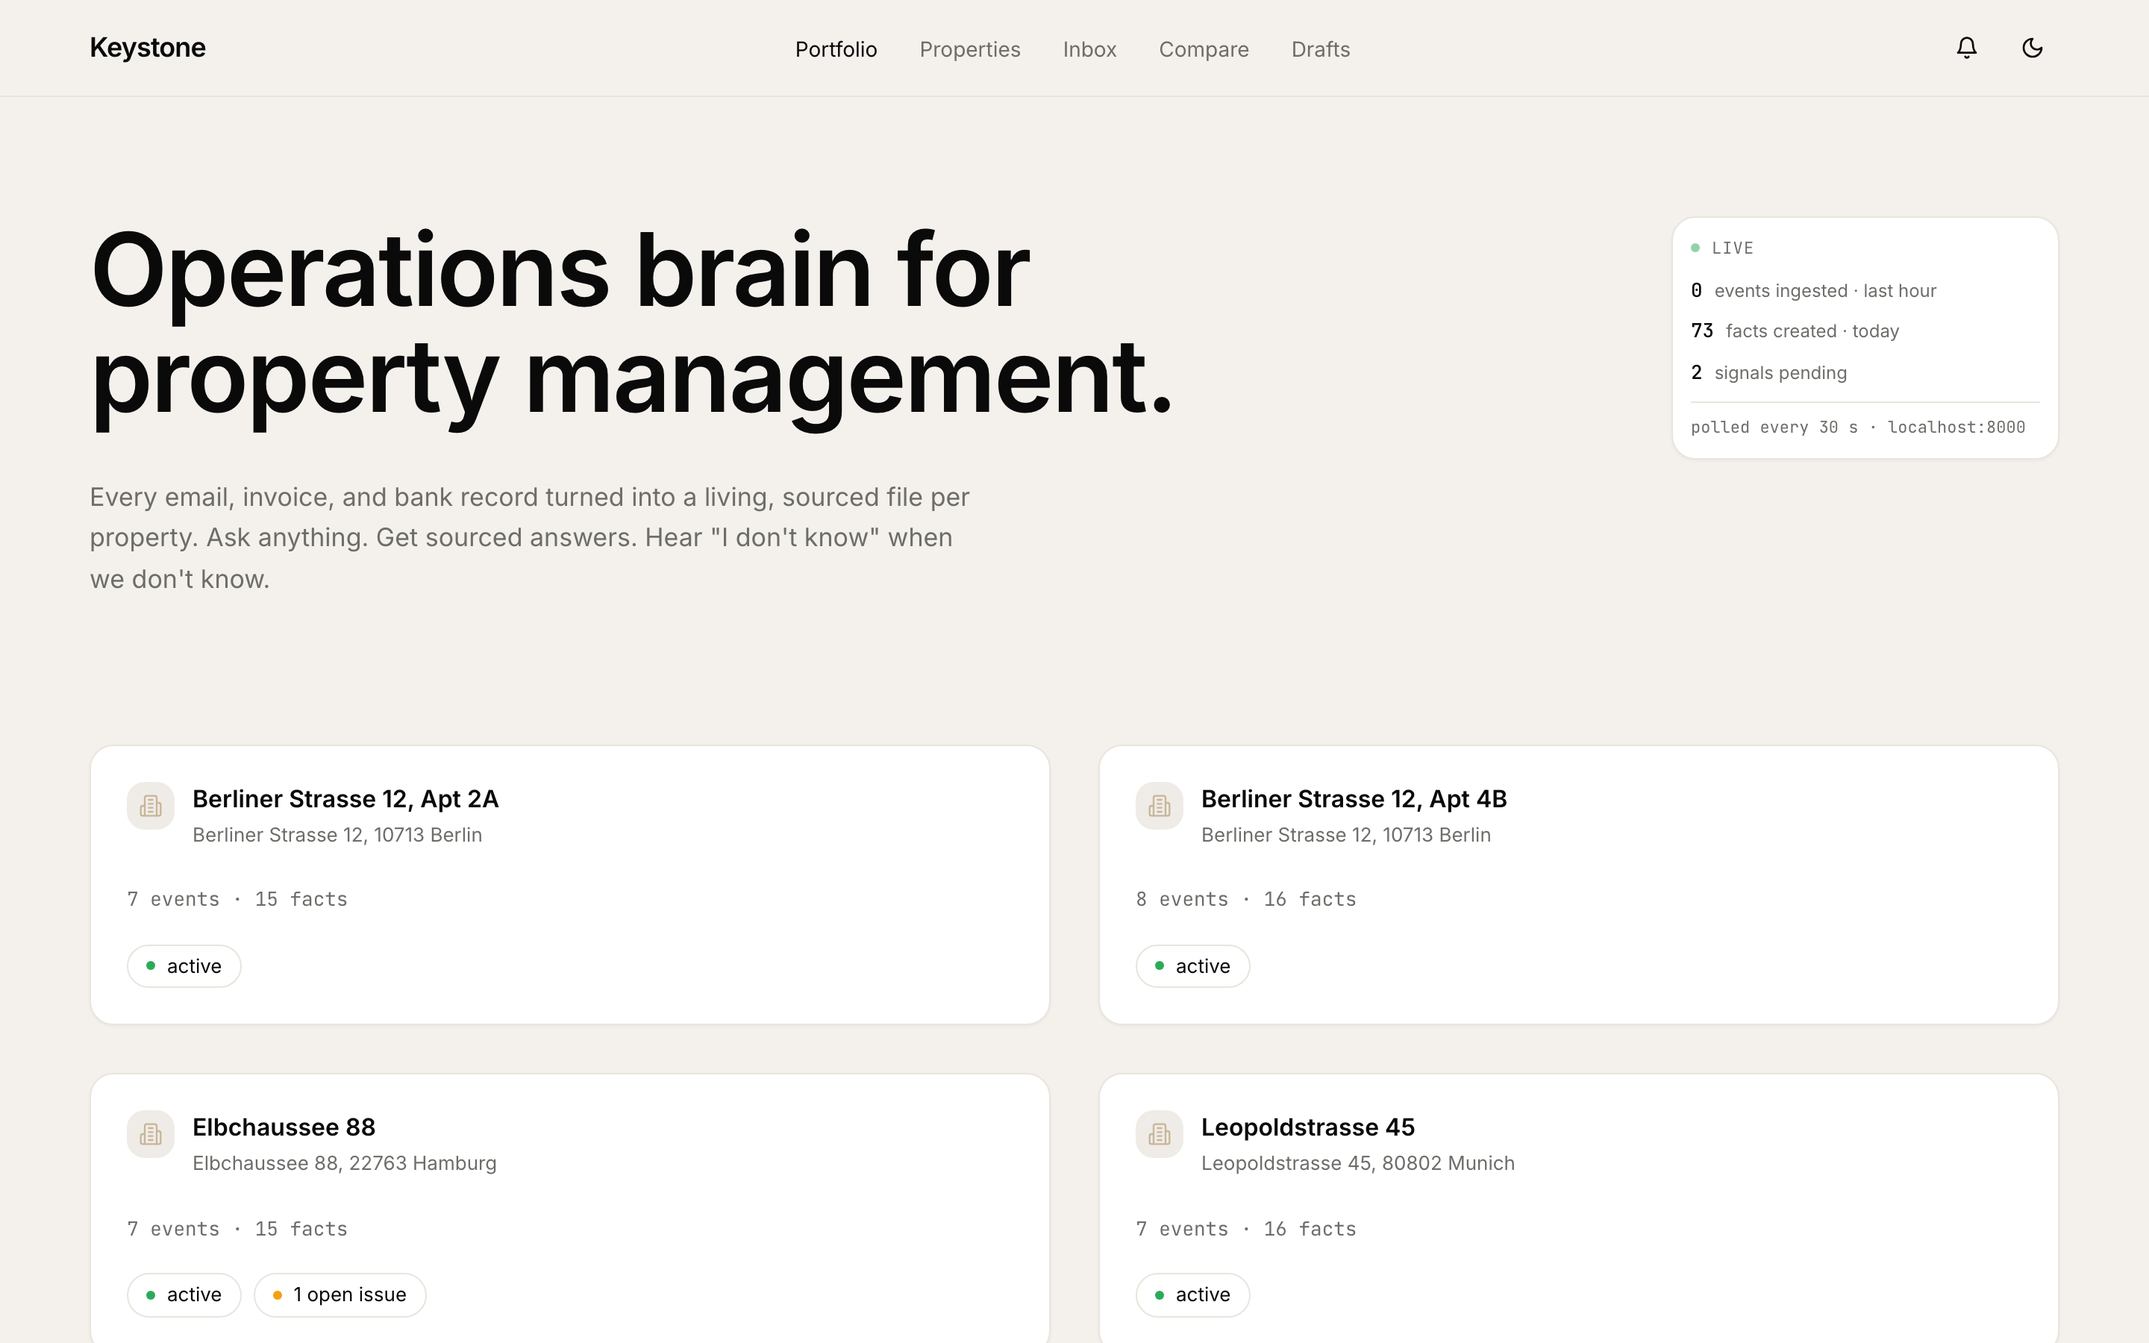
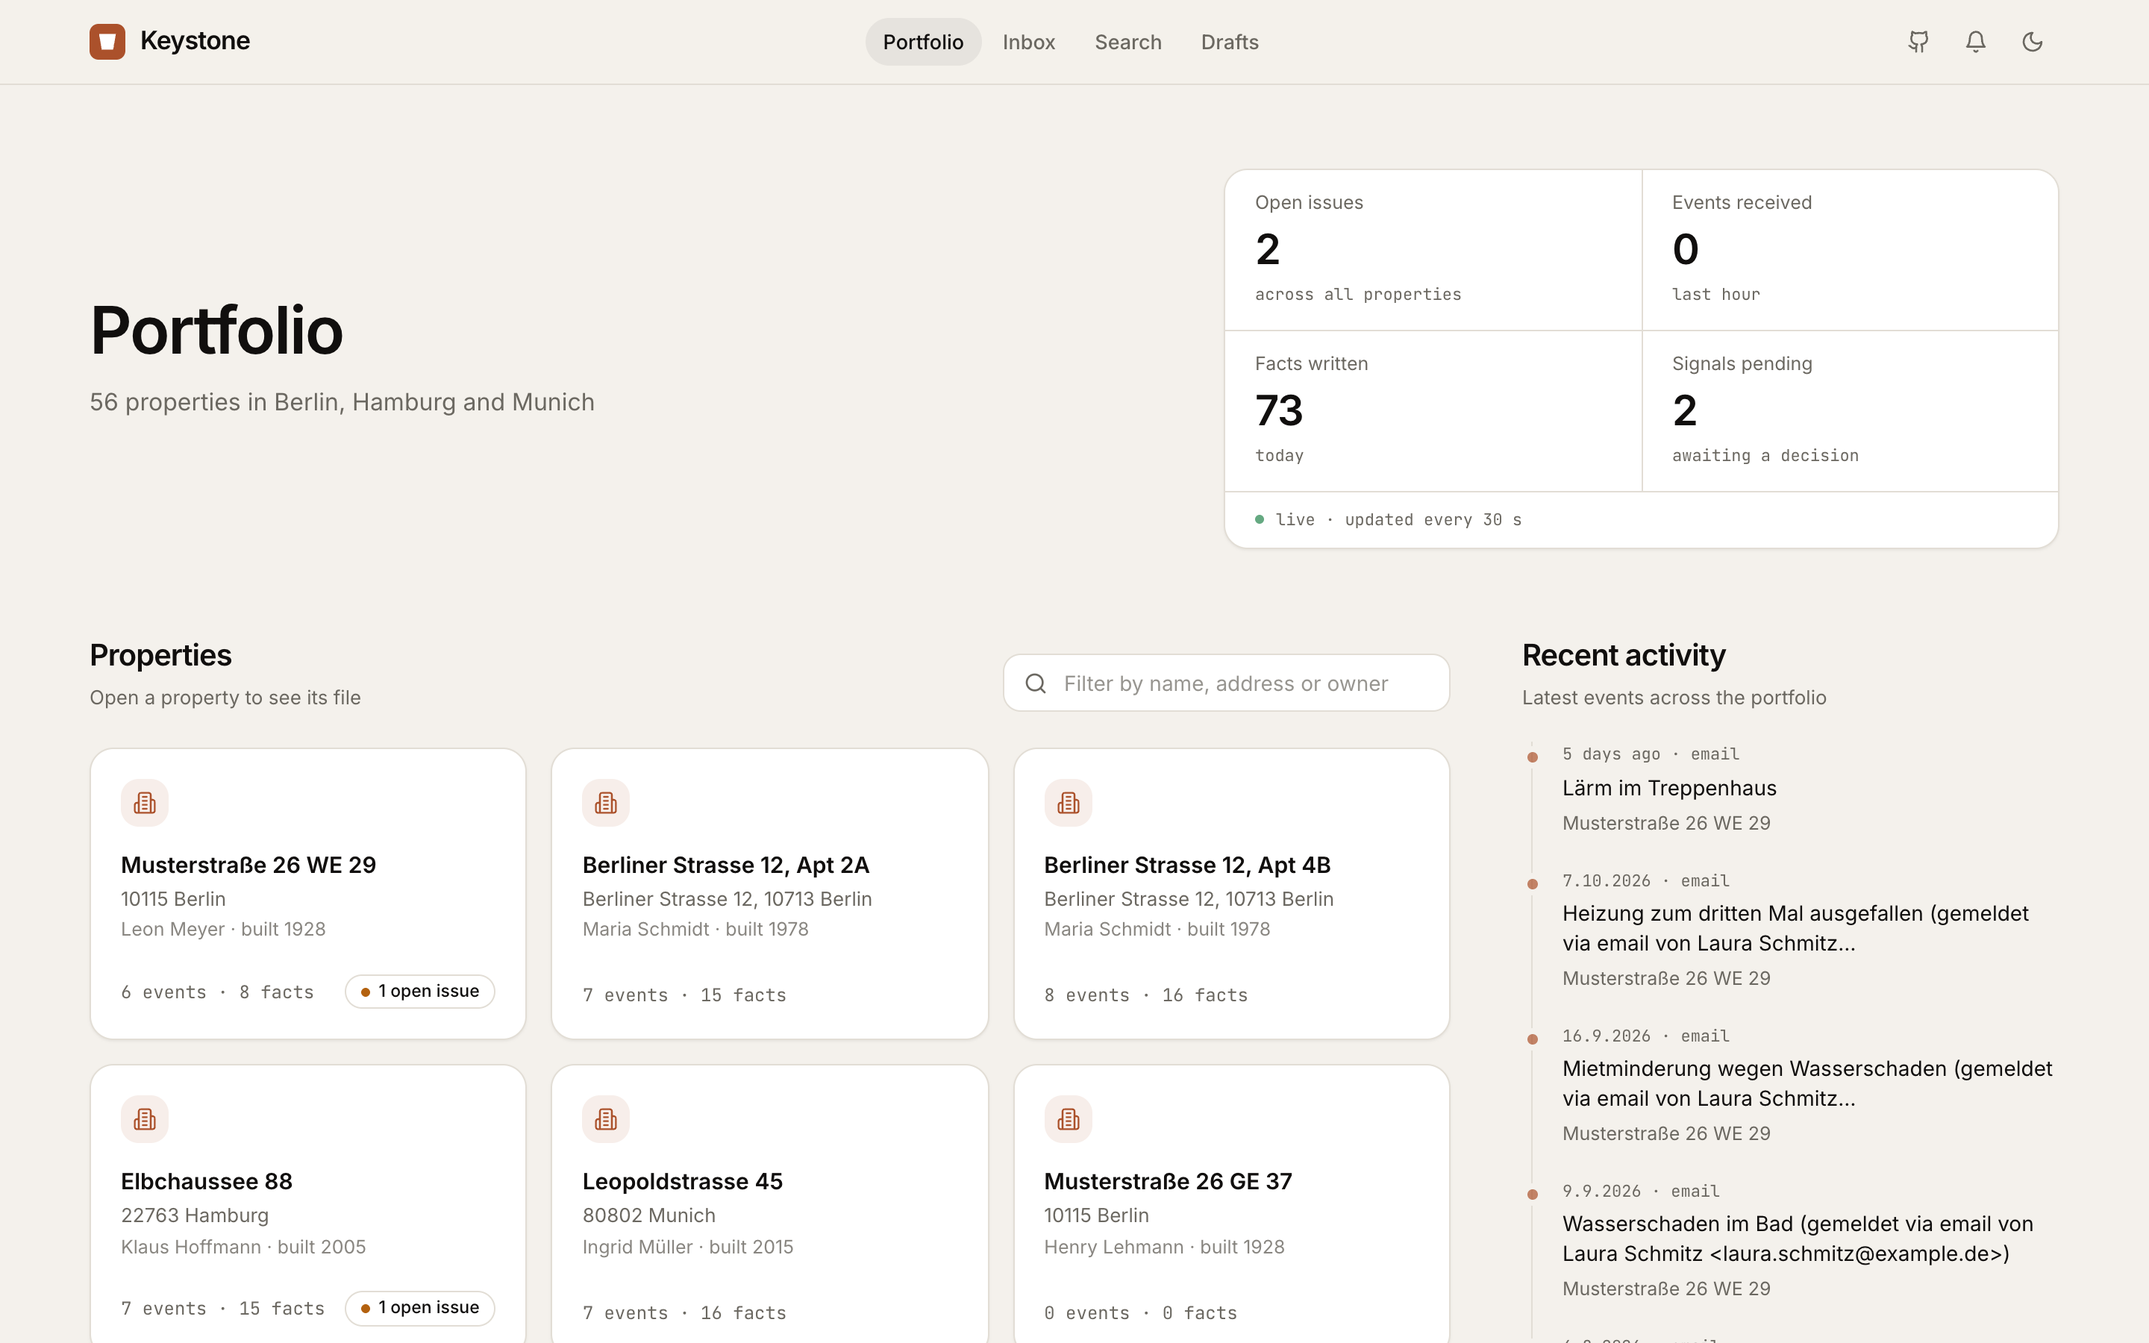
docs: rewrite the README and refresh the screenshots

diff --git a/README.md b/README.md
@@ -1,15 +1,19 @@
 # Keystone
 
-Keystone turns a property manager's scattered inbox, bank statements,
-invoices and master data into one current, sourced file per property. Every
-fact links to the email or document it came from, carries a confidence score
-and keeps its history; anything the system is unsure about goes to a review
-inbox instead of into the file. On top of the files, rules raise signals
-(recurring heating failures, expiring leases, patterns across buildings) that
-a human approves before anything is sent. It runs without any API key, using a
-rule-based extractor.
+Keystone keeps one file per property for a property manager. It reads what
+the manager already has (tenant email, bank statements, contractor invoices,
+letters, the master-data spreadsheet), pulls the facts out, and writes each
+one into the right property's file with a link to the message or document
+it came from, a confidence score and its history. When it is not sure, the
+item goes to a review inbox instead of the file. A few rules watch the files
+for things worth acting on, such as a heating system that keeps failing or a
+lease about to expire, and draft a message that a person has to approve
+before it goes anywhere.
 
-Built solo in a hackathon window, then cleaned up and hardened.
+I wrote the first version in a hackathon and have been cleaning it up since.
+It runs without any API key: extraction falls back to a rule-based extractor
+and signal drafts to templates. Give it a key and an LLM does the extraction,
+answers questions about a property with citations, and drafts replies.
 
 | Portfolio | Property file |
 |---|---|
@@ -17,135 +21,232 @@ Built solo in a hackathon window, then cleaned up and hardened.
 | **Approval inbox** | **Ask** |
 | ![Approval inbox](docs/img/approval-inbox.png) | ![Ask](docs/img/ask-panel.png) |
 
-A fresh `docker compose up` with no API key: the synthetic sample data as it
-loads on first start, nothing added by hand.
+The screenshots are from a fresh `docker compose up` with no API key: the
+sample data as it loads on first start, nothing added by hand.
 
 ## How it works
 
-```mermaid
-flowchart LR
-    S[Email, bank CSV, PDFs, Slack, API] --> C[Connectors / API]
-    C -->|idempotent insert| Q[(events in Postgres)]
-    Q -->|SKIP LOCKED| W[Worker: route, extract, diff, validate, apply]
-    W --> F[(facts + materialized files)]
-    W --> R[(review inbox)]
-    F --> API[REST + SSE]
-    API --> UI[React frontend]
-    API --> M[MCP server]
-    F --> E[Signal evaluator] --> I[Approval inbox] --> O[(outbox)]
+```
+   email, bank CSV, PDFs, Slack, HTTP
+                  |
+                  v
+             connectors         redact, then insert keyed on
+                  |             (source, source_ref); a re-run is a no-op
+                  v
+          events (Postgres)     Postgres is the queue
+                  |
+                  v
+               worker           claims one row with SKIP LOCKED, then in
+                  |             one transaction: route, extract, diff,
+                  |             validate, apply, re-render the file
+         +--------+--------+
+         |                 |
+         v                 v
+   facts and files    review inbox
+         |
+         +----> REST API, SSE ----> React frontend
+         |                   \----> MCP server
+         |
+         +----> signal rules -----> approval inbox ----> outbox
 ```
 
-Design details: [docs/ARCHITECTURE.md](docs/ARCHITECTURE.md). Why it is built
-this way, including the mistakes: [docs/DECISIONS.md](docs/DECISIONS.md).
+A connector redacts IBANs, phone numbers and email domains before anything
+is stored, and inserts the event keyed on `(source, source_ref)`, so
+importing the same archive twice changes nothing. The worker claims events
+with `FOR UPDATE SKIP LOCKED`; several workers can share one database and
+there is no separate queue to run.
 
-## Features
+For each event the worker looks for a property named in the text and marks
+the event unrouted rather than guess. (The bulk email import also routes to
+a building or an owners' association.) It extracts facts, diffs them
+against what the file already says, runs eight rule constraints (a
+building's address and year built never change, a rent change needs an
+addendum, and so on) and, with a key, an LLM check for contradictions with
+the current file. Anything under the confidence floor or flagged by a
+constraint lands in the review inbox. A fact an operator edited by hand is
+never overwritten. Old facts are kept and point at their replacement, so
+the history of any field can be read back. The property's file is
+re-rendered in the same transaction as the fact write, so nobody reads a
+file that disagrees with its facts.
 
-- **Idempotent ingestion** of `.eml` archives, bank CSV, invoice and letter
-  PDFs, master data, IMAP, Slack and PDF upload, keyed on
-  `(source, source_ref)`: `connectors/`, `backend/api/webhooks.py`,
-  `backend/api/uploads.py`
-- **Postgres as the job queue** with `FOR UPDATE SKIP LOCKED`, one transaction
-  per event: `backend/pipeline/worker.py`
-- **Three-tier routing** (owners' association, building, unit) that leaves an
-  event unrouted rather than guessing: `backend/pipeline/router.py`
-- **LLM extraction with structured output**, timeouts, retries and a
-  rule-based fallback: `backend/pipeline/extractor.py`,
-  `backend/services/gemini.py`
-- **Facts with provenance and supersession**, where operator edits are never
-  overwritten: `backend/pipeline/differ.py`, `backend/pipeline/applier.py`
-- **Trust layer**: 8 rule constraints, an LLM contradiction check and an
-  uncertainty inbox: `backend/pipeline/validator.py`,
-  `backend/pipeline/constraints/`, `backend/pipeline/semantic_validator.py`
-- **Per-property files re-rendered in the same transaction** as each fact
-  write: `backend/pipeline/materializer.py`
-- **Signals with human approval**; a decision holds for a cooldown period:
-  `backend/signals/`, `backend/api/signals.py`
-- **Ask a property** with cited answers or an explicit "I don't know":
-  `backend/services/ask.py`
-- **MCP server** exposing property context to MCP clients: `mcp_server/`
-- **PII redaction at ingestion** and a **durable LLM spend cap**:
-  `connectors/redact.py`, `connectors/cost_ledger.py`
-- **Evaluation harness** with committed run reports: `eval/`, `docs/eval-runs/`
+Signals run on their own schedule over the current facts, so a slow rule
+never holds up ingestion. A decision on a signal holds for a cooldown
+period, so the same finding does not come back the next morning.
 
-## Quickstart
+The long version, with the data model and the concurrency story, is
+[docs/ARCHITECTURE.md](docs/ARCHITECTURE.md). Each non-obvious choice, the
+alternatives that were rejected and the mistakes along the way are in
+[docs/DECISIONS.md](docs/DECISIONS.md).
 
-Requires Docker.
+## Running it
 
-```bash
-cp .env.example .env && docker compose up
-```
+You need Docker.
 
-- Frontend: <http://localhost:8080>
-- API and interactive docs: <http://localhost:8000/docs>
+    cp .env.example .env
+    docker compose up
 
-The first start builds both images, applies the schema and loads synthetic
-sample data: 56 properties, and six tenant emails for the featured property
-(WE 29) that go through the pipeline so its file has a history. No API key is needed: extraction falls back to
-the rule-based extractor and signal drafts to templates. Ask, reply drafting
-and the LLM contradiction check need a provider key in `.env`:
-`GEMINI_API_KEY` by default, or `LLM_PROVIDER=pioneer` with `PIONEER_API_KEY`.
-Push an event through the pipeline:
+Then:
 
-```bash
-curl -X POST localhost:8000/debug/trigger_event -H 'content-type: application/json' \
-  -d '{"raw_content": "From: tenant@example.com\nSubject: Heizung\n\nDie Heizung in WE 29 ist ausgefallen."}'
-```
+    frontend    http://localhost:8080
+    API docs    http://localhost:8000/docs
 
-Development without containers: `docker compose up -d postgres`, then
-`pip install -e ".[dev]"` and `./scripts/dev.sh` (API with reload plus the Vite
-dev server). Tests: `pytest` against that Postgres, with no keys or other
-services, and `npm test` in `frontend/`. `pre-commit install` adds ruff,
-prettier and a check that blocks real addresses, IBANs and deployment URLs;
-CI (`.github/workflows/ci.yml`) runs those plus mypy, ESLint, the type check,
-both test suites and the frontend build.
+The first start builds both images, applies the schema and loads the sample
+data: 56 properties, and six tenant emails for the featured property (WE 29)
+that go through the pipeline so its file has a history. All of it is
+synthetic. Starting again is safe; every step is idempotent.
+
+To push an event through yourself:
+
+    curl -X POST localhost:8000/debug/trigger_event \
+      -H 'content-type: application/json' \
+      -d '{"raw_content": "From: tenant@example.com\nSubject: Heizung\n\nDie Heizung in WE 29 ist ausgefallen."}'
+
+The property page picks the change up over the server-sent event stream.
+
+Without a key, extraction uses the rule-based path, signal drafts use
+templates, and Ask and reply drafting return 503. To turn the LLM on, set
+`GEMINI_API_KEY` in `.env`, or `LLM_PROVIDER=pioneer` and `PIONEER_API_KEY`
+for an OpenAI-compatible gateway. Nothing else changes.
+
+## Running without Docker
+
+Python 3.11, Node 20 and Postgres 16. The compose file can provide just the
+database, published on host port 5433 so it does not collide with one you
+already run; the DSNs in `.env.example` point at it.
+
+    docker compose up -d postgres
+    python3.11 -m venv .venv && source .venv/bin/activate
+    pip install -e ".[dev]"
+    (cd frontend && npm ci)
+
+Apply the schema and load the sample data, which is what the container
+entrypoint does on start:
+
+    python -m seed.seed
+    python -c "from connectors.migrations import apply_all; apply_all()"
+    EXTRACTED_ROOT=Extracted_demo python -m connectors.cli load-stammdaten --source buena
+    python -m connectors.cli materialize-all
+    python -m connectors.cli load-sample-events
+
+Then `./scripts/dev.sh` starts the API with reload on port 8000 and the Vite
+dev server on 8080, and stops both on Ctrl-C.
+
+## Configuration
+
+Everything is read from the environment or `.env`. The example file lists
+every variable with a comment, and the defaults are enough for a local run.
+The ones worth knowing:
+
+    DATABASE_URL            asyncpg DSN; DATABASE_URL_SYNC is the psycopg2 one
+    LLM_PROVIDER            gemini (default) or pioneer, and that provider's key
+    FEATURED_PROPERTY       the property the UI opens first (default EH-029)
+    KEYSTONE_CORS_ORIGINS   browser origins allowed to call the API
+    IMAP_HOST, IMAP_USER,   mailbox to poll; the poller stays off until a
+    IMAP_PASSWORD           real password is set
+    SLACK_SIGNING_SECRET    the Slack webhook checks signatures once this is set
+    MOCK_ERP_URL            payments feed to poll; empty turns the poller off
+
+## Tests and checks
+
+The Python tests need the Postgres from `docker compose up -d postgres` and
+nothing else. API keys are blanked for every test, so a run never makes a
+paid call, and a test that needs the private dataset skips and says so.
+
+    pytest                      # backend, connectors, eval, mcp_server, scripts
+    cd frontend && npm test     # Vitest
+
+`pre-commit install` adds ruff, prettier and a check that no real address,
+IBAN or deployment URL gets committed. CI runs those plus mypy in strict
+mode, ESLint, the TypeScript check, both test suites and the frontend
+build, against an empty Postgres 16. See `.github/workflows/ci.yml`.
 
 ## Evaluation
 
-30 hand-labelled emails, scored by `python -m eval.runner --set emails_v1`.
-Full methodology and weaknesses: [docs/EVALUATION.md](docs/EVALUATION.md).
+The extractor is scored against 30 hand-labelled emails by
+`python -m eval.runner --set emails_v1`. The LLM run and the keyless run
+on the same set:
 
-| Metric | LLM (Gemini) | Rule-based, no key |
+| | Gemini | Rule-based, no key |
 |---|---:|---:|
 | Category accuracy | 73.3% | 63.3% |
 | Routing accuracy | 93.3% | 93.3% |
 | Fact extraction, micro F1 | 0.88 | 0.42 |
 | Lease facts, F1 | 0.62 | 0.67 |
-| Extracted values matching the source wording | 3 of 26 | 0 of 11 |
+| Values matching the source wording | 3 of 26 | 0 of 11 |
 
-Every number here is traced to its command or report in
+These are not numbers to leave unattended, and the set is too small to tell
+two strong models apart. Lease precision is low because the model reads an
+owner selling up as a tenant giving notice. Values come back paraphrased
+rather than quoted. Nearly every LLM fact claims a confidence of 0.9 or
+more while about one in five is in the wrong slot. The reports are
+committed under `docs/eval-runs/` and discussed in
+[docs/EVALUATION.md](docs/EVALUATION.md). Every number in this file is
+traced to the command that produced it in
 [docs/PROJECT_FACTS.md](docs/PROJECT_FACTS.md).
 
-## Tech stack
+## Command-line tools
 
-Python 3.11, FastAPI, SQLAlchemy 2 (async, asyncpg), PostgreSQL, APScheduler,
-pydantic, structlog; Google Gemini and an OpenAI-compatible gateway for LLM
-calls; MCP Python SDK. Frontend: React 18, TypeScript, Vite, TanStack Query,
-Tailwind CSS, Radix UI. Tooling: pytest and pytest-asyncio, Vitest and
-Testing Library, ruff, mypy (strict), ESLint, Prettier, pre-commit, GitHub
-Actions.
+`python -m connectors.cli` loads master data and walks the bank, invoice and
+email archives into events. The email backfill goes through the live
+extraction pipeline, is resumable, and stops at a spend cap kept in a ledger
+table (default $20), so a restart cannot double the bill. The archive
+readers expect the private dataset under `Extracted/`, which is not in the
+repository; `Extracted_demo/` holds synthetic master data and six sample
+emails in the same shape.
 
-## Project layout
+`python -m mcp_server.main` exposes five tools (property context, search,
+pending signals, activity, propose an action) over MCP as a thin client of
+the REST API. Install with `pip install -e ".[mcp]"` first. Wiring it into
+Claude Desktop is described in [mcp_server/README.md](mcp_server/README.md).
+
+`uvicorn tools.mock_erp.main:app --port 8001` serves a stand-in payments
+feed. Set `MOCK_ERP_URL=http://localhost:8001` to have the API poll it.
+
+## Layout
 
 ```
 backend/        FastAPI app: api/, pipeline/, signals/, services/, db/
-connectors/     archive importers, PII redaction, cost ledger, CLI
+connectors/     archive importers, redaction, cost ledger, migrations, CLI
 eval/           ground truth, runner, metrics
 mcp_server/     MCP adapter over the REST API
-frontend/       React client
-seed/           sample data and schema bootstrap
-scripts/        dev runner, backfill, demo-data synthesis, release checks
-tools/mock_erp/ optional stand-in ERP feed
-docs/           architecture, decisions, evaluation, facts, release, eval runs
-Extracted_demo/ synthetic master data (committed)
+frontend/       React client; has its own README
+seed/           schema bootstrap and hand-written sample data
+scripts/        dev runner, container entrypoint, sensitive-data check,
+                demo-data synthesis, release helpers
+tools/mock_erp/ stand-in ERP feed
+docs/           architecture, decisions, evaluation, facts, eval runs
+Extracted_demo/ synthetic master data and sample emails
 ```
 
-## Limitations
+Python side: FastAPI, SQLAlchemy 2 with asyncpg, pydantic, APScheduler,
+structlog; pytest, ruff, mypy. Frontend: React 18, TypeScript, Vite,
+TanStack Query, Tailwind, a few Radix primitives; Vitest.
 
-No authentication; approved actions are written to an outbox, never sent;
-scheduled jobs run in every API instance, so several instances repeat the
-same work; extraction quality is measured on only 30 emails. The full list is in
+## Known problems
+
+There is no authentication. Do not put it on the internet as it is.
+
+Nothing is ever sent. An approved signal is written to an outbox table and
+stops there.
+
+Scheduled jobs run in every API process, so with N instances the signal
+evaluator and the pollers do their work N times. The worker itself is safe
+to run in parallel. A leader lock would fix the rest.
+
+Redaction replaces the domain of an email address but keeps the local part,
+so a name in an address survives.
+
+Bulk-imported emails skip the rule constraints and the contradiction check.
+Live events get the full pipeline.
+
+Property search is keyword matching. The IMAP code is tested through
+parsing real `.eml` files; the fetch loop against a live server is not.
+
+Extraction quality is measured on 30 emails, as above.
+
+The full list, with detail, is in
 [docs/ARCHITECTURE.md](docs/ARCHITECTURE.md#known-limitations).
 
 ## License
 
-MIT, see [LICENSE](LICENSE).
+MIT. See [LICENSE](LICENSE).
